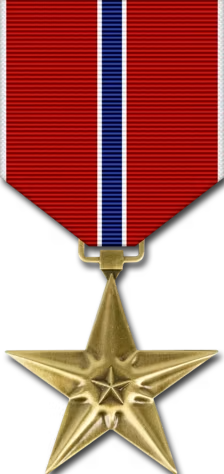
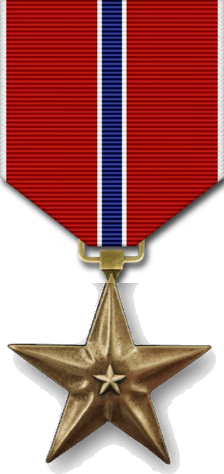
Show the remodelled award art, in both places it was stale
Two separate staleness bugs, which looked like one.

The awards list on the record takes atlas tiles, so it already had the
remodelled art on the server - the slice cache is keyed on the atlas
fingerprint and cannot serve yesterday's medal. But the browser was handed
/api/icon/award/601008?h=88 with a year's Cache-Control and no token in the
URL, so a re-cut atlas never reached anyone who had looked before. The icon
sheets now publish an art_version - a hash of the fingerprints of every
atlas behind them - which rides in the career payload and goes on every
icon URL. A header alone could not have fixed this: a browser holding an
immutable entry does not ask again, so the URL had to move.

The full-dress tunic takes a different road: MedalRenderer composes it from
drawn bases in static/images/medals, a 224x474 drape with the ribbon
full-width and the devices over its first DRAPE_LENGTH rows. Those bases
are cut by hand and nothing propagates an atlas change into them, so the
Bronze Star stayed brass in the record after it went bronze in the game.

tools/refresh_medal_art.py takes the pendant across. Only the pendant: the
ribbon is not remodelled with the medal, and the drape's ribbon is
deliberately longer than the tile's so the devices have somewhere to sit.
It finds the waist - the narrowest row between ribbon and medal, which is
the suspension - in both pictures, scales the tile's pendant to the width
[…]

Changed region(s): [[0.0312, 0.5907, 1.0, 1.0]]

diff --git a/korea_service_record/static/js/app.js b/korea_service_record/static/js/app.js
@@ -57,11 +57,16 @@
     // Reuse the plain ROK image URL too, bypassing cached repeat-device art.
     const iconIdent = (kind, ident) => kind === "award" &&
         ["601047", "601048", "601049"].includes(String(ident)) ? 601043 : ident;
+    // The atlases are the mod's, and the mod gets re-cut. Icons are cached
+    // hard, so their URL carries a token that moves with the art.
+    let artRev = "";
+    const artArg = () => (artRev ? "&r=" + encodeURIComponent(artRev) : "");
     const icon = (kind, ident, height, cls, title, extra) =>
         (ident === null || ident === undefined || ident === "")
             ? ""
             : '<img class="' + cls + ' emblem" src="/api/icon/' + kind + "/" +
-              encodeURIComponent(iconIdent(kind, ident)) + "?h=" + height + '" alt="" title="' +
+              encodeURIComponent(iconIdent(kind, ident)) + "?h=" + height + artArg() +
+              '" alt="" title="' +
               esc(title || "") + '" data-kind="' + kind + '" data-id="' +
               esc(ident) + '" data-title="' + esc(title || "") + '" ' + (extra || "") +
               ' onerror="this.style.display=&quot;none&quot;">';
@@ -87,7 +92,8 @@
         el("lb-title").textContent = title || "";
         el("lb-sub").textContent = "";
         el("lb-desc").textContent = T("common.loading");
-        el("lb-image").src = "/api/icon/" + kind + "/" + encodeURIComponent(iconIdent(kind, ident));
+        el("lb-image").src = "/api/icon/" + kind + "/" +
+            encodeURIComponent(iconIdent(kind, ident)) + (artRev ? "?r=" + encodeURIComponent(artRev) : "");
         el("lb-image").alt = title || "";
         show(box);
         document.body.classList.add("lightbox-open");
@@ -492,7 +498,7 @@
             left = stack ? '<div class="sov-right">' + stack + "</div>" : "";
             caption = T("awards.tunic_caption_" + coat + (full ? "_full" : ""));
         } else {
-            const badge = rack.badge ? '<img class="tunic-badge" src="/api/icon/award/' + esc(rack.badge) + '" alt="' + esc(rack.badge_name) + '" title="' + esc(rack.badge_name) + '">' : "";
+            const badge = rack.badge ? '<img class="tunic-badge" src="/api/icon/award/' + esc(rack.badge) + (artRev ? "?r=" + esc(artRev) : "") + '" alt="' + esc(rack.badge_name) + '" title="' + esc(rack.badge_name) + '">' : "";
             // Service dress mounts unit citations in the rack itself, so
             // the strip is only drawn in full dress, on the breast opposite
             // the medals: every one for a Marine, the senior alone for a
@@ -1258,6 +1264,7 @@
             const p = d.player;
 
             currentCareer = d.id;
+            artRev = d.art_rev || "";
             currentPilot = d.subject_id;
             currentAvatar = p.avatar;
             showPortrait(currentCareer, currentPilot, p.avatar);

diff --git a/tools/refresh_medal_art.py b/tools/refresh_medal_art.py
@@ -1,0 +1,162 @@
+"""
+Bring a drawn medal base back in step with the game's atlas.
+
+    python tools/refresh_medal_art.py 601008 601018 [--dry-run] [--sheet out.png]
+
+The full-size medals on the record and the dress tunic are composed by
+``medals.MedalRenderer`` from bases in ``static/images/medals``: a 224x474
+drape with the ribbon full-width at the top, the devices laid over its first
+``DRAPE_LENGTH`` rows, and the medal hanging below. The shadowbox takes the
+atlas tiles instead, so when the mod's award art is remodelled the atlas
+moves and these bases do not - the Bronze Star went bronze in the game while
+the record still showed the old brass one.
+
+Only the pendant is taken across. The ribbon is not remodelled with the
+medal, and the drape's ribbon is deliberately longer than the atlas tile's
+so devices have somewhere to sit, so rebuilding it from the tile would
+change the composition for no reason. Everything above the waist - the
+ribbon, its fold and its chevron - is kept exactly as it was.
+
+The waist is the narrowest row between the ribbon and the medal: the
+suspension ring or the clasp. It is found in both pictures, the tile's
+pendant is scaled to the width the old one had (or to the height left in
+the canvas, whichever is the tighter fit), and it is hung centred with its
+top on the old waist.
+"""
+
+import argparse
+import sys
+from pathlib import Path
+
+REPO = Path(__file__).resolve().parent.parent
+sys.path.insert(0, str(REPO))
+
+from korea_service_record import medals                       # noqa: E402
+from korea_service_record.career.aggregator import CareerAggregator  # noqa: E402
+from korea_service_record.locate import find_game_dir         # noqa: E402
+
+ART = REPO / "korea_service_record" / "static" / "images" / "medals"
+
+# The waist is looked for between these fractions of the picture's height.
+# Above is ribbon, below is medal; every drape and every tile in the set has
+# its suspension well inside this band.
+WAIST_BAND = (0.30, 0.72)
+
+
+def waist(img) -> int:
+    """The row where the ribbon hands over to the medal."""
+    import numpy as np
+
+    opaque = np.asarray(img.convert("RGBA"))[..., 3] > 100
+    widths = opaque.sum(axis=1)
+    lo, hi = (int(len(widths) * f) for f in WAIST_BAND)
+    return lo + int(np.argmin(widths[lo:hi]))
+
+
+def pendant(img):
+    """The medal below the waist, trimmed to its own ink."""
+    cut = img.convert("RGBA").crop((0, waist(img), img.width, img.height))
+    box = cut.getbbox()
+    return cut.crop(box) if box else None
+
+
+def refresh(base: int, tile, dry_run: bool = False):
+    """Rebuild one base from its atlas tile. Returns (old, new) for a sheet."""
+    from PIL import Image
+
+    path = ART / f"{base}.png"
+    if not path.is_file():
+        print(f"  {base}: no drawn base to refresh")
+        return None
+    old = Image.open(path).convert("RGBA")
+    if old.size != medals.DRAPE:
+        old = old.resize(medals.DRAPE, Image.LANCZOS)
+    new_pendant = pendant(tile)
+    old_pendant = pendant(old)
+    if new_pendant is None or old_pendant is None:
+        print(f"  {base}: cannot find a pendant in one of the two")
+        return None
+
+    cut = waist(old)
+    room_h = medals.DRAPE[1] - cut
+    # Match the width the old medal had, unless that would not fit the rows
+    # left under the ribbon - the drape is a fixed canvas and a medal drawn
+    # past its bottom edge is worse than one a few per cent small.
+    scale = min(old_pendant.width / new_pendant.width, room_h / new_pendant.height)
+    size = (max(1, round(new_pendant.width * scale)),
+            max(1, round(new_pendant.height * scale)))
+    if size[0] > medals.DRAPE[0]:
+        scale *= medals.DRAPE[0] / size[0]
+        size = (medals.DRAPE[0], max(1, round(new_pendant.height * scale)))
+    scaled = new_pendant.resize(size, Image.LANCZOS)
+
+    out = Image.new("RGBA", medals.DRAPE, (0, 0, 0, 0))
+    out.alpha_composite(old.crop((0, 0, medals.DRAPE[0], cut)), (0, 0))
+    out.alpha_composite(scaled, ((medals.DRAPE[0] - size[0]) // 2, cut))
+    print(f"  {base}: waist y {cut}, pendant {new_pendant.size} -> {size} "
+          f"(x{scale:.3f}){' [dry run]' if dry_run else ''}")
+    if not dry_run:
+        out.save(path, optimize=True)
+    return old, out
+
+
+def main() -> int:
+    from PIL import Image
+
+    ap = argparse.ArgumentParser(description=__doc__,
+                                 formatter_class=argparse.RawDescriptionHelpFormatter)
+    ap.add_argument("ids", nargs="*", type=int, help="base award ids; default every drawn base")
+    ap.add_argument("--dry-run", action="store_true", help="measure and draw, write nothing")
+    ap.add_argument("--sheet", type=Path, help="write a before/after picture here")
+    ap.add_argument("--per-row", type=int, default=5, help="pairs per row on the sheet")
+    args = ap.parse_args()
+
+    game = find_game_dir()
+    if game is None:
+        print("No IL-2 Korea installation found")
+        return 1
+    print(f"Atlas from {game}")
+    agg = CareerAggregator(game, lang="eng")
+
+    ids = args.ids or sorted(medals.DRAWN)
+    pairs = []
+    for base in ids:
+        data = agg.icons.png("award", str(base))
+        if data is None:
+            print(f"  {base}: no atlas tile")
+            continue
+        import io
+        got = refresh(base, Image.open(io.BytesIO(data)), args.dry_run)
+        if got:
+            pairs.append((base, *got))
+
+    if args.sheet and pairs:
+        # Wrapped, and labelled: a single row of seventeen pairs is 8000px
+        # wide and nothing in it can be judged.
+        from PIL import ImageDraw
+        cell, pad, per_row, label = medals.DRAPE[0], 14, args.per_row, 22
+        cols = min(per_row, len(pairs))
+        rows = (len(pairs) + per_row - 1) // per_row
+        pair_w = cell * 2 + pad
+        sheet = Image.new("RGBA", (cols * (pair_w + pad) + pad,
+                                   rows * (medals.DRAPE[1] + label + pad) + pad),
+                          (242, 236, 220, 255))
+        draw = ImageDraw.Draw(sheet)
+        for i, (base, before, after) in enumerate(pairs):
+            cx = pad + (i % per_row) * (pair_w + pad)
+            cy = pad + (i // per_row) * (medals.DRAPE[1] + label + pad)
+            draw.text((cx, cy + 4), f"{base}   before | after", fill=(90, 70, 40, 255))
+            sheet.alpha_composite(before, (cx, cy + label))
+            sheet.alpha_composite(after, (cx + cell + pad, cy + label))
+        args.sheet.parent.mkdir(parents=True, exist_ok=True)
+        sheet.convert("RGB").save(args.sheet)
+        print(f"Sheet: {args.sheet} ({len(pairs)} pairs, before then after)")
+
+    if not args.dry_run and pairs:
+        print("\nBump medals.REVISION so the render cache and the browser "
+              "both let go of the old pictures.")
+    return 0
+
+
+if __name__ == "__main__":
+    raise SystemExit(main())

diff --git a/korea_service_record/icons.py b/korea_service_record/icons.py
@@ -86,6 +86,30 @@ class IconLibrary:
         self.resolver = resolver
         self._sheets: Dict[str, IconSheet] = {}
         self._atlas_cache: Dict[str, object] = {}
+        self._art_version: Optional[str] = None
+
+    def art_version(self) -> str:
+        """
+        A short token that changes whenever any atlas behind these sheets
+        does.
+
+        The slices themselves are cached on disk under the atlas fingerprint,
+        so the server can never serve yesterday's medal - but the browser was
+        told to keep ``/api/icon/award/601008?h=88`` for a year, and that URL
+        does not move when the art under it is remodelled. The token goes in
+        the URL so a re-cut atlas reaches people who already have the old
+        picture, which a cache header alone cannot do.
+        """
+        if self._art_version is None:
+            marks = []
+            for kind in SHEETS:
+                sheet = self.sheet(kind)
+                if sheet is None:
+                    continue
+                for atlas in sorted({c.atlas for c in sheet.crops.values()}):
+                    marks.append(self.resolver.fingerprint(f"{IMAGE_ROOT}/{atlas}"))
+            self._art_version = hashlib.sha1("|".join(marks).encode()).hexdigest()[:8]
+        return self._art_version
 
     def sheet(self, kind: str) -> Optional[IconSheet]:
         if kind not in SHEETS:

diff --git a/korea_service_record/app.py b/korea_service_record/app.py
@@ -398,6 +398,9 @@ def create_app(game_dir: Optional[Path] = None) -> Flask:
         if detail is None:
             return jsonify({"error": "career_not_found"}), 404
         settings = app.config["SETTINGS"]
+        # Moves when the mod's atlases do, so a remodelled medal is not
+        # hidden behind a year-long browser cache on an unchanged URL.
+        detail["art_rev"] = agg.icons.art_version()
         detail["language"] = settings.resolve(career_id)
         detail["language_override"] = settings.career_language(career_id) or ""
         return jsonify(detail)

diff --git a/korea_service_record/medals.py b/korea_service_record/medals.py
@@ -30,7 +30,7 @@ logger = logging.getLogger(__name__)
 
 ART = Path(__file__).resolve().parent / "static" / "images" / "medals"
 # Bump whenever the composition or the art changes; it is part of the URLs.
-REVISION = 22
+REVISION = 23
 
 # --- US: drawn art -----------------------------------------------------------
 # Every base medal is drawn 224 px wide - the drape is 1 3/8 inch, the same
